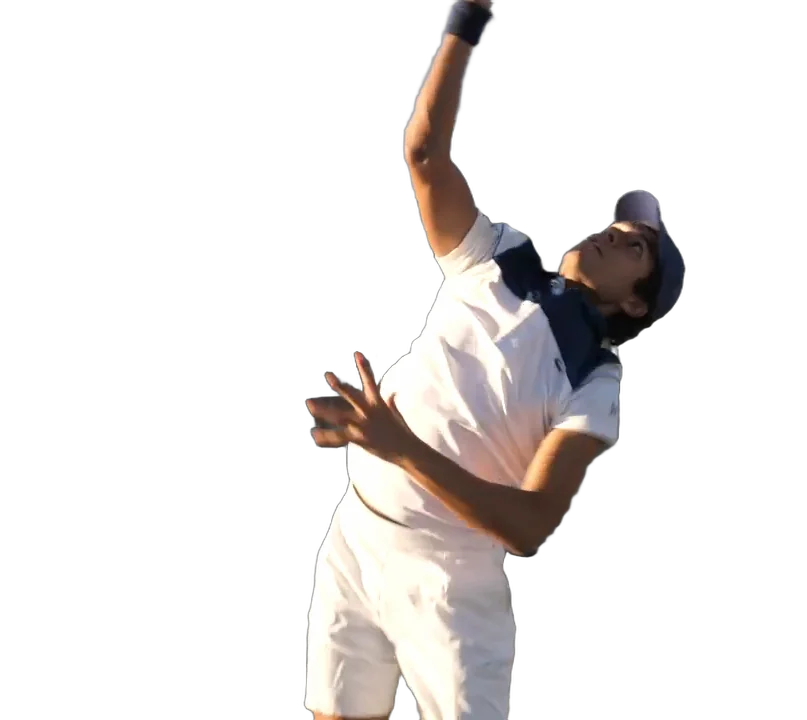
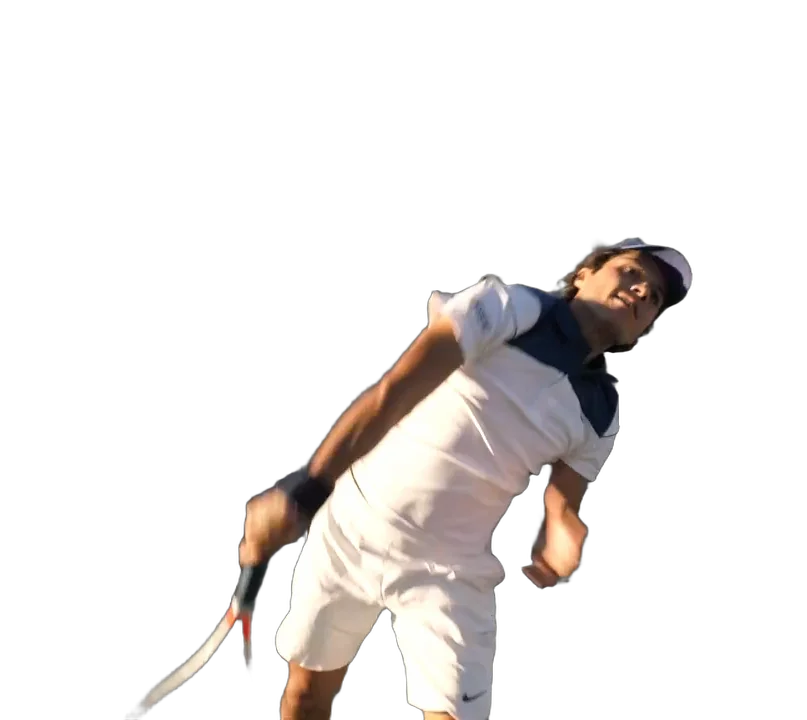
fix: correções da revisão final, rodada 1 (ticket 12)
Ingresso como última marca, marcas no traço sem eyebrows, coração à mão,
linhas de base por capítulo, hero sem faixa morta, display maior no
mobile, quadro estático com raquete; estados com easing chegam a 1.

Changed region(s): [[0.1549, 0.0, 0.8674, 1.0]]

diff --git a/src/style.css b/src/style.css
@@ -186,7 +186,7 @@ a {
 .court__stadium {
   position: absolute;
   z-index: -3;
-  inset: 0 0 29% 30%;
+  inset: 0 0 20% 30%;
   overflow: hidden;
   mix-blend-mode: multiply;
   opacity: 0.36;
@@ -221,9 +221,9 @@ a {
   z-index: -1;
   /* canvas é elemento substituído: top + bottom não esticam, a altura precisa ser explícita */
   right: 2%;
-  bottom: 29%;
+  bottom: 20%;
   width: min(58%, 1040px);
-  height: 62%;
+  height: 70%;
   -webkit-mask-image: linear-gradient(to top, transparent, #000 16%);
   mask-image: linear-gradient(to top, transparent, #000 16%);
 }
@@ -265,7 +265,7 @@ a {
 .mark--hero {
   position: absolute;
   left: 41%;
-  top: 50%;
+  top: 58%;
   z-index: 0;
 }
 
@@ -342,13 +342,13 @@ a {
 .court__line--base {
   left: 0;
   right: 0;
-  top: 71%;
+  top: 80%;
   height: var(--line);
 }
 
 .court__line--center {
   top: 0;
-  bottom: 29%;
+  bottom: 20%;
   left: 61%;
   width: var(--line);
 }
@@ -361,7 +361,7 @@ a {
 h1 {
   margin: 0;
   font-family: var(--font-display);
-  font-size: clamp(4.5rem, 13vw, 10.5rem);
+  font-size: clamp(5.5rem, 13vw, 10.5rem);
   font-weight: 500;
   font-stretch: 62%;
   line-height: 0.82;
@@ -462,7 +462,7 @@ h1 {
 h2 {
   margin: 0;
   font-family: var(--font-display);
-  font-size: clamp(3rem, 9vw, 7.5rem);
+  font-size: clamp(3.5rem, 9vw, 7.5rem);
   font-weight: 500;
   font-stretch: 62%;
   line-height: 0.85;
@@ -524,6 +524,10 @@ h2 {
   display: grid;
   margin: 0;
   padding: 0 0 3.5rem; /* espaço para as camadas se afastarem */
+}
+
+.terre {
+  padding-bottom: clamp(3rem, 6vh, 5rem);
   list-style: none;
 }
 
@@ -547,7 +551,8 @@ h2 {
 }
 
 .strata__layer--brick {
-  background: var(--clay-deep);
+  background: var(--clay-deep) url('/img/saibro.webp') center / 700px auto;
+  background-blend-mode: multiply;
   color: var(--chalk);
   padding-block: 0.6rem;
 }
@@ -655,14 +660,13 @@ h2 {
   margin-inline: auto;
 }
 
-/* o coração é um sulco riscado no saibro: fundo escuro e um brilho fino na borda de cima */
+/* o coração é um sulco riscado no saibro com a ponta da raquete: um traço só, à mão */
 .guga__groove {
   fill: none;
   stroke: #6e2a10;
-  stroke-width: 11;
+  stroke-width: 9;
   stroke-linecap: round;
   stroke-linejoin: round;
-  filter: drop-shadow(0 -2px 0 rgb(246 239 226 / 0.55)) drop-shadow(0 2px 1px rgb(60 20 5 / 0.35));
 }
 
 .guga__heart figcaption {
@@ -695,13 +699,99 @@ h3 {
   text-wrap: pretty;
 }
 
-/* Jeu, Set et Match: a última marca é o ingresso */
-.match {
-  min-height: 90svh;
+/* Cada capítulo termina numa linha de base: a página inteira é quadra */
+.chapter {
+  position: relative;
 }
 
-.match .cta--solid {
+.chapter:not(.match)::after {
+  content: '';
+  position: absolute;
+  left: 0;
+  right: 0;
+  bottom: 0;
+  height: var(--line);
+  background: var(--chalk);
+}
+
+/* 2. a marca fica no traço: oval e número na mesma linha */
+.chapter .mark {
+  flex-direction: row;
+  align-items: center;
+  gap: 0.9rem;
+}
+
+.chapter--right .mark {
+  flex-direction: row-reverse;
+}
+
+/* Jeu, Set et Match: termina como começou, numa quadra; a última marca é o ingresso */
+.match {
+  min-height: 100svh;
+  isolation: isolate;
+}
+
+.match__lines {
+  position: absolute;
+  inset: 0;
+  z-index: -1;
+}
+
+.match__lines .court__line--base {
+  top: 80%;
+}
+
+.match__lines .court__line--center {
+  top: 0;
+  bottom: 20%;
+}
+
+.ticket {
+  display: inline-flex;
+  align-items: stretch;
   margin-top: 1rem;
+  background: var(--chalk);
+  color: var(--clay-deep);
+  text-decoration: none;
+  box-shadow: 0 18px 36px -18px rgb(60 20 5 / 0.7);
+  transition: transform 220ms cubic-bezier(0.16, 1, 0.3, 1);
+}
+
+.ticket:hover {
+  transform: translateY(-3px);
+}
+
+.ticket__stub {
+  display: grid;
+  justify-items: center;
+  align-content: center;
+  gap: 0.35rem;
+  padding: 0.9rem 1.2rem;
+  border-right: 2px dashed rgb(143 58 24 / 0.5);
+}
+
+.ticket__stub .mark__number {
+  font-size: 0.875rem;
+}
+
+.ticket__label {
+  align-self: center;
+  padding: 1.1rem 0.6rem 1.1rem 1.4rem;
+  font-size: clamp(1.125rem, 1.6vw, 1.5rem);
+  font-weight: 700;
+  text-transform: uppercase;
+  letter-spacing: 0.06em;
+}
+
+.ticket .cta__arrow {
+  align-self: center;
+  margin-right: 1.4rem;
+  width: 1.4em;
+  height: 1.4em;
+}
+
+.ticket:hover .cta__arrow {
+  transform: translateX(4px);
 }
 
 .match__note {
@@ -757,8 +847,16 @@ h3 {
   }
 
   /* No celular a linha de base desce, para o saque caber entre o texto e ela */
-  .court__line--base {
+  .court .court__line--base {
     top: 79%;
+  }
+
+  .ticket__label {
+    padding-inline: 1rem 0.4rem;
+  }
+
+  .ticket .cta__arrow {
+    margin-right: 1rem;
   }
 
   .court__line--center {

diff --git a/index.html b/index.html
@@ -63,7 +63,7 @@
           <div class="terre__text">
             <div class="mark" data-chapter-mark>
               <span class="mark__oval" aria-hidden="true"></span>
-              <p class="mark__caption"><span class="mark__number">Marca 02</span> o saibro</p>
+              <p class="mark__caption"><span class="mark__number">Marca 02</span></p>
             </div>
             <h2 id="titulo-terre">Terre Battue</h2>
             <p class="chapter__lede">Tijolo moído, varrido entre os sets. É o saibro que guarda a marca de cada bola.</p>
@@ -99,7 +99,7 @@
           <div class="legendes__head">
             <div class="mark" data-chapter-mark>
               <span class="mark__oval" aria-hidden="true"></span>
-              <p class="mark__caption"><span class="mark__number">Marca 03</span> as lendas</p>
+              <p class="mark__caption"><span class="mark__number">Marca 03</span></p>
             </div>
             <h2 id="titulo-legendes">Les Légendes</h2>
             <p class="chapter__lede">Quem venceu aqui deixou mais do que um troféu. Deixou marca.</p>
@@ -128,7 +128,7 @@
             <figure class="guga__heart" data-heart>
               <svg viewBox="0 0 400 360" role="img" aria-labelledby="coracao-desc">
                 <title id="coracao-desc">Um coração desenhado no saibro com a ponta de uma raquete.</title>
-                <path class="guga__groove" data-heart-path d="M200 330 C 120 270, 26 205, 34 122 C 40 58, 98 26, 148 40 C 176 48, 194 70, 200 96 C 207 68, 228 45, 258 38 C 312 26, 368 64, 366 128 C 362 210, 274 268, 204 326" />
+                <path class="guga__groove" data-heart-path d="M214 318 C 172 290, 118 250, 74 204 C 38 166, 22 124, 38 86 C 54 50, 98 34, 136 46 C 166 56, 186 80, 196 106 C 202 78, 222 50, 254 40 C 296 28, 344 50, 358 96 C 372 142, 344 190, 300 236 C 270 268, 238 296, 206 326 C 196 334, 186 320, 192 310" />
               </svg>
               <figcaption>A marca do Guga. Paris, 3 de junho de 2001.</figcaption>
             </figure>
@@ -148,14 +148,18 @@
         </section>
 
         <section id="jeu-set-et-match" class="chapter chapter--left match" aria-labelledby="titulo-jeu">
-          <div class="mark" data-chapter-mark>
-            <span class="mark__oval" aria-hidden="true"></span>
-            <p class="mark__caption"><span class="mark__number">Marca 04</span> a sua</p>
+          <div class="match__lines" aria-hidden="true">
+            <span class="court__line court__line--base"></span>
+            <span class="court__line court__line--center"></span>
           </div>
           <h2 id="titulo-jeu">Jeu, Set et Match</h2>
           <p class="chapter__lede">Todo saque deixa uma marca. A próxima, no saibro de Paris, pode ser a sua.</p>
-          <a class="cta cta--solid" data-cta href="#" target="_blank" rel="noopener noreferrer">
-            Garanta seu ingresso
+          <a class="ticket" data-cta href="#" target="_blank" rel="noopener noreferrer">
+            <span class="ticket__stub" data-chapter-mark>
+              <span class="mark__oval" aria-hidden="true"></span>
+              <span class="mark__caption"><span class="mark__number">Marca 04</span></span>
+            </span>
+            <span class="ticket__label">Garanta seu ingresso</span>
             <svg class="cta__arrow" viewBox="0 0 24 24" aria-hidden="true"><path d="M5 12h13M13 6l6 6-6 6" /></svg>
           </a>
           <p class="match__note">Você vai para a bilheteria oficial de Roland-Garros, em outra aba.</p>

diff --git a/src/rally.js b/src/rally.js
@@ -1,6 +1,8 @@
 import { gsap } from 'gsap';
 
-const easeOut = gsap.parseEase('expo.out');
+const expoOut = gsap.parseEase('expo.out');
+// o expo.out do GSAP termina em 0,999; no fim do trecho o estado precisa ser exatamente o final
+const easeOut = (t) => (t >= 1 ? 1 : expoOut(t));
 
 // O traço corre pela borda da página (onde nunca há conteúdo) e atravessa para cada marca no respiro acima
 // dela. No desktop o texto alterna de lado, então a borda é a do lado da próxima marca; no celular o texto
@@ -83,7 +85,7 @@ export function createRally({ container, start }) {
     gsap.set(ball, { x: tip.x, y: tip.y, opacity: drawn > 0 && drawn < length ? 1 : 0 });
 
     for (const mark of marks) {
-      const sink = easeOut(gsap.utils.clamp(0, 1, (headY - mark.y + 40) / 160));
+      const sink = easeOut(gsap.utils.clamp(0, 1, (headY - mark.y + 40) / 110));
       gsap.set(mark.oval, { scale: sink });
       gsap.set(mark.caption, { opacity: sink, y: (1 - sink) * 12 });
     }

diff --git a/src/hero.js b/src/hero.js
@@ -8,7 +8,9 @@ const FLIGHT_END = 0.9;
 const MARK_END = 0.96;
 
 const phase = (p, start, end) => clamp(0, 1, mapRange(start, end, 0, 1, p));
-const easeOut = gsap.parseEase('expo.out');
+const expoOut = gsap.parseEase('expo.out');
+// o expo.out do GSAP termina em 0,999; no fim do trecho o estado precisa ser exatamente o final
+const easeOut = (t) => (t >= 1 ? 1 : expoOut(t));
 
 export function createHero({ section, manifest, serveCanvas }) {
   const stadium = section.querySelector('[data-stadium] img');

diff --git a/tools/saque.py b/tools/saque.py
@@ -21,7 +21,7 @@ OUT = ROOT / 'public/frames'
 MANIFEST = ROOT / 'src/frames-manifest.json'
 
 START, DURATION = 2.4, 4.4  # trecho do saque (s)
-STATIC_FRAME = 80  # braço estendido, raquete subindo: o quadro estático (reduced-motion)
+STATIC_FRAME = 89  # follow-through, raquete inteira à vista: o quadro estático (reduced-motion)
 CONTACT_FRAME = 82  # contato raquete-bola, logo acima da borda do vídeo
 CONTACT_POINT = (560, -24)  # posição do contato no vídeo original (px), estimada pela grade dos quadros 74-80
 DESKTOP_COUNT = 90

diff --git a/processo/revisao-final.md b/processo/revisao-final.md
@@ -1,0 +1,30 @@
+# Revisão final (impeccable finish review)
+
+**Data:** 2026-10-10 · **Como:** um agente revisor novo, sem o histórico da conversa, seguindo a definição oficial do
+`impeccable_finish_reviewer` (não há um tipo de agente próprio registrado neste ambiente, então foi usado um agente genérico
+com essas instruções). Ele revisa só pelos arquivos e screenshots, sem navegador, e devolve uma "disposição":
+ship / fix / rebuild / recapture.
+
+## Rodada 0: recapture
+- A evidência foi recusada: no `mobile.png`, a foto da Terre Battue saiu **vazia**. A imagem tem `loading="lazy"` e o screenshot de página inteira não rola, então ela nunca carregava.
+- **Erro meu (da IA):** eu tinha validado só a miniatura do desktop.
+- Correção: o script de captura agora rola a página inteira e espera todas as imagens carregarem.
+
+## Rodada 1: fix (8 correções materiais)
+| # | Correção pedida | Veredito depois do lote |
+|---|---|---|
+| 1 | Raquete no quadro focal | **partial**: o quadro estático passou para o follow-through (raquete inteira); no contato, a raquete está acima da borda do vídeo original |
+| 2 | Remover os "eyebrows" acima dos títulos | **resolved** |
+| 3 | "A última marca é o ingresso" | **resolved**: o CTA virou um ingresso com canhoto, e o oval da Marca 04 é o ponto final do traço |
+| 4 | Coração sem entalhe falso em CSS, desenhado à mão | **resolved** |
+| 5 | Linhas da quadra no resto da página | **resolved**: cada capítulo termina numa linha de base |
+| 6 | Faixa vazia embaixo do hero no desktop | **resolved**: linha de base de 71% → 80%, jogador maior |
+| 7 | Títulos maiores no mobile | **resolved** |
+| 8 | Camadas com material real | **partial**: só o tijolo tem textura real (as outras não têm foto com licença em mãos) |
+
+**Regressões do lote, apontadas pelo revisor:**
+- **R1:** o traço passa exatamente na altura de "MARCA 02/03", como um tachado.
+- **R2:** no mobile, a linha central cruza o ingresso e a nota, e o CTA quebra em duas linhas.
+- **R3:** no desktop, a quadra do fechamento fica vazia do lado direito.
+
+Também corrigido nesta rodada: o `expo.out` do GSAP termina em 0,999, então os estados finais não chegavam a 1. Um teste pegou isso.

diff --git a/processo/correcoes-de-rota.md b/processo/correcoes-de-rota.md
@@ -86,3 +86,7 @@ Registro do que mudou de direção, saiu errado ou foi corrigido ao revisar a en
 - **O traço do rali cruzava o coração e o placar.** O roteamento mudou de novo e ficou mais simples: o traço sempre corre pela **borda da página**, do lado da próxima marca (no celular, sempre a direita), e atravessa até a marca no respiro acima dela. Uma regra só, para qualquer tela.
 - **Texto corrigido antes de publicar:** escrevi "semanas depois, era campeão", mas a final foi poucos dias depois das oitavas. Ficou "dias depois", que a fonte sustenta.
 - **Teste quebrado por mudança anterior:** um teste do ticket 05 procurava `.mark__caption`, que desde o ticket 06 casa com 4 elementos. O seletor agora aponta para a marca do hero.
+
+## #18 · Revisão final: recaptura e 8 correções (2026-10-10)
+- A primeira evidência foi recusada (foto lazy vazia no mobile), porque eu só tinha validado o desktop. Ver `revisao-final.md`.
+- O revisor pediu 8 correções. 6 ficaram resolvidas e 2 parciais por limitação de material. O lote causou 3 regressões novas (R1–R3).
